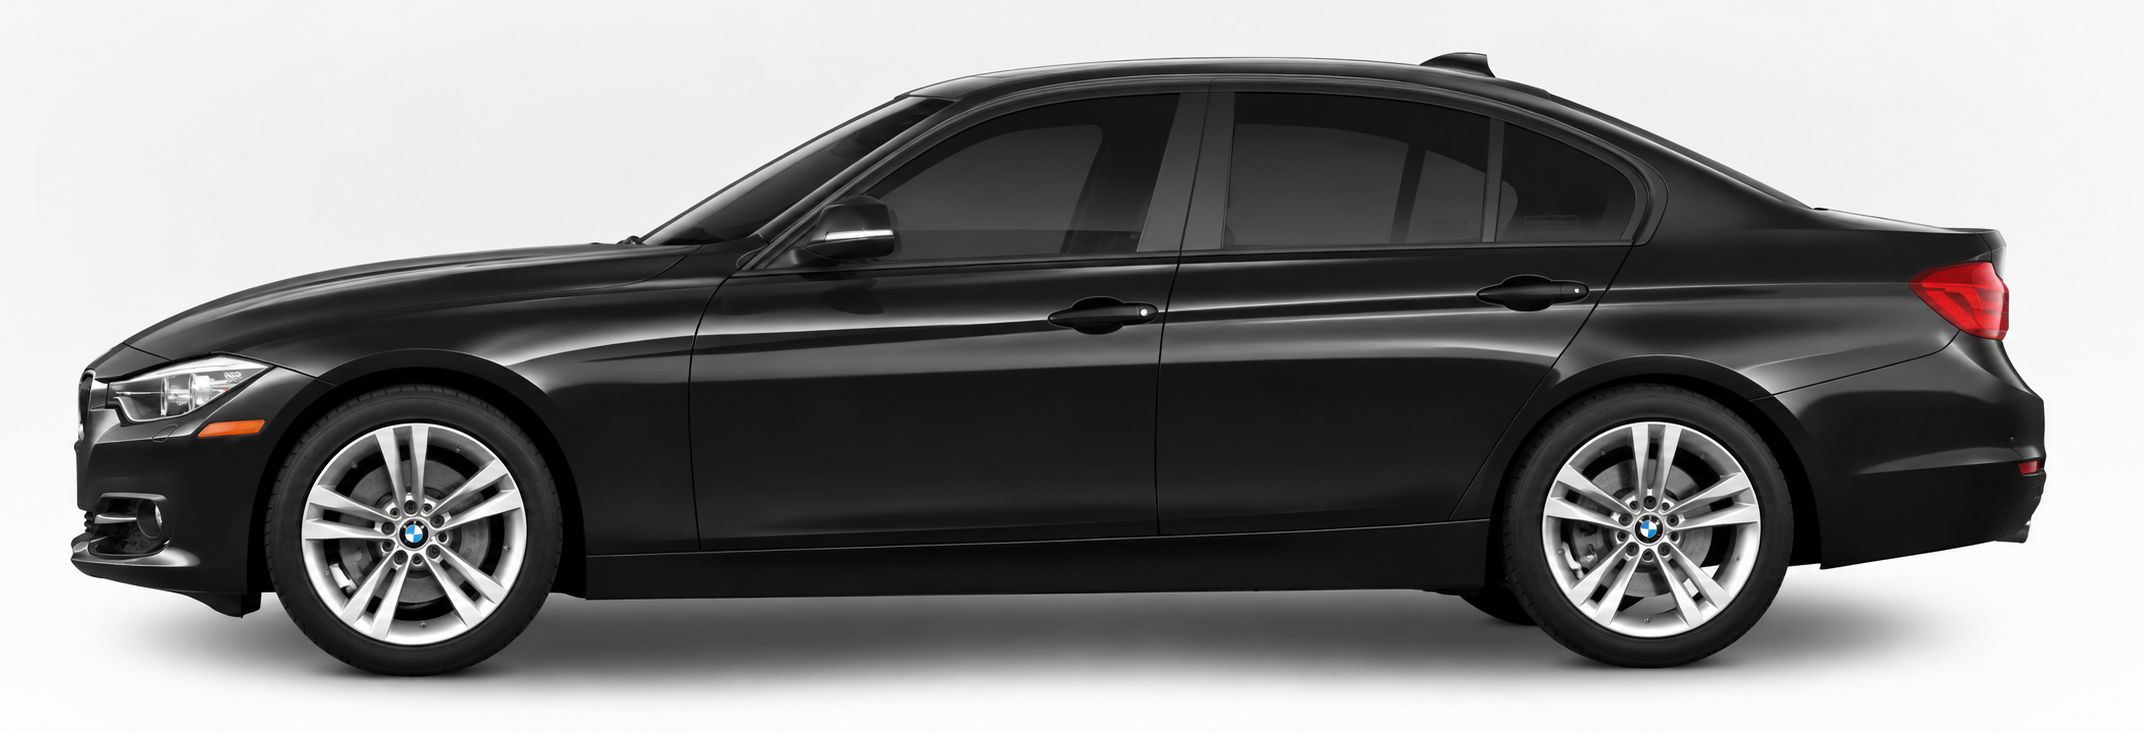
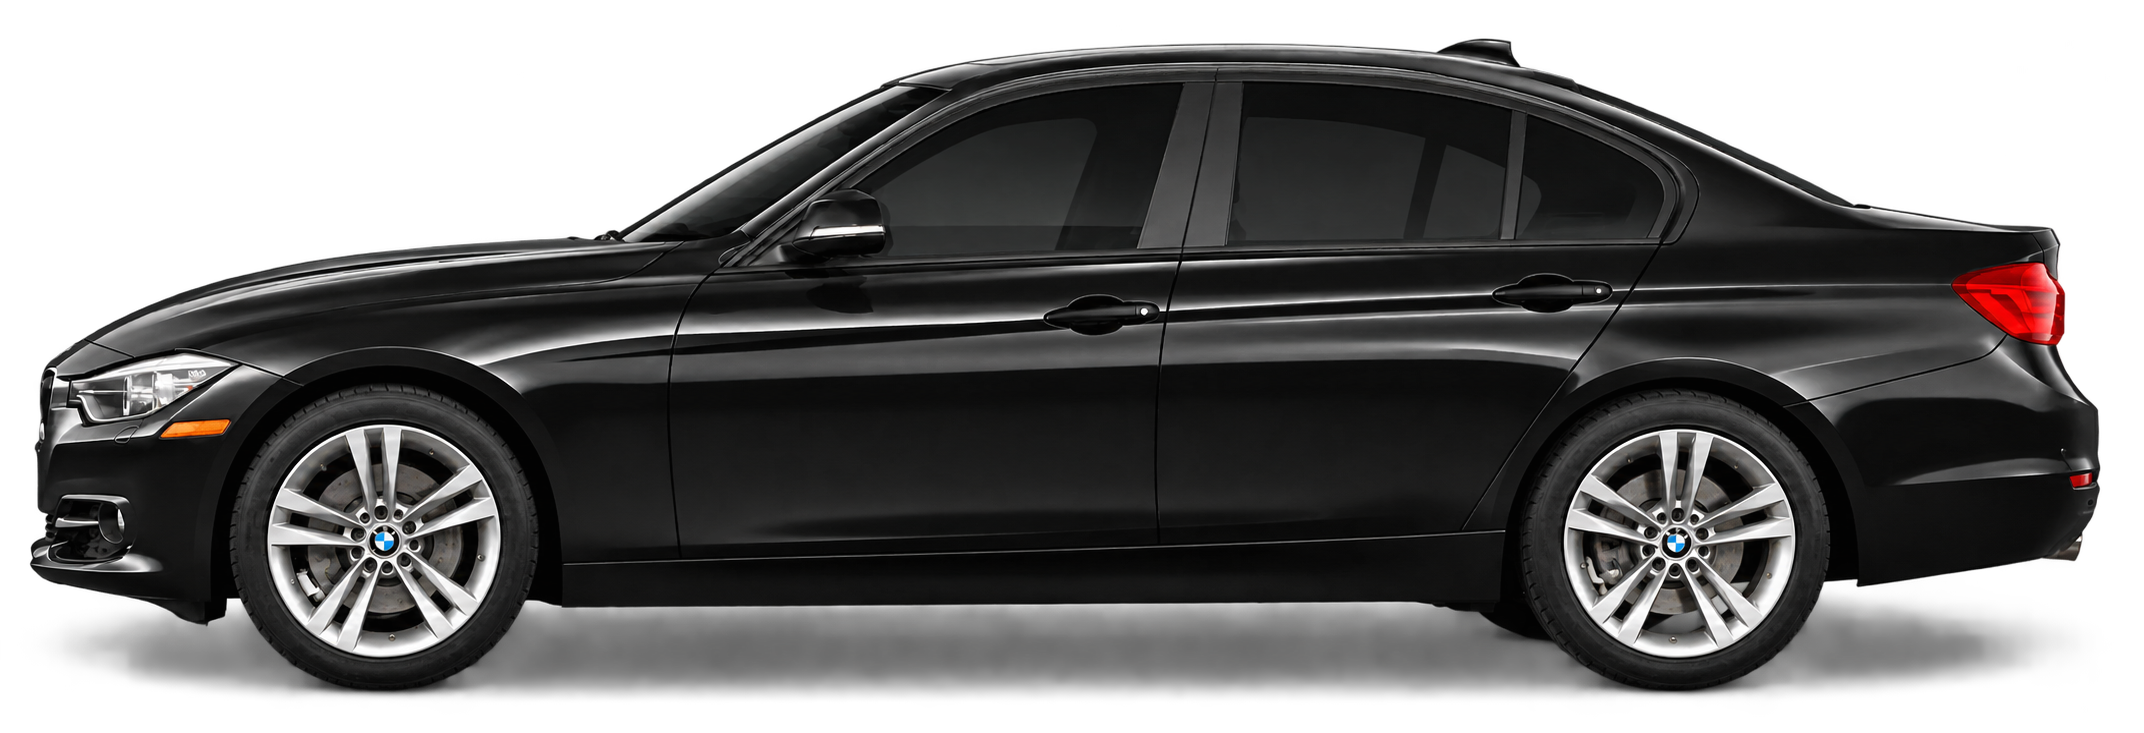
Hero: use the new transparent BMW cut-out with grounded shadow
- Replace hero-bmw.png with the supplied cut-out; drop the build-time
  studio-background blending that the old photo needed
- Hero uses the same grounded CarFigure as the Why section
- Clip the hero horizontally so the floor glow can't widen the page

Changed region(s): [[0.0, 0.03, 1.0, 0.9604], [0.5625, 0.2401, 0.5938, 0.2701]]

diff --git a/src/app/page.tsx b/src/app/page.tsx
@@ -1,7 +1,6 @@
 import BookNow from "@/components/BookNow";
 import CarFigure from "@/components/CarFigure";
 import FleetSection from "@/components/FleetSection";
-import Img from "@/components/Img";
 import AboutSection from "@/components/AboutSection";
 import { links } from "@/content";
 
@@ -9,7 +8,7 @@ export default function Home() {
   return (
     <>
       {/* Hero */}
-      <section id="home" aria-label="Introduction" className="relative scroll-mt-28 bg-[radial-gradient(ellipse_75%_50%_at_50%_62%,#E6E9E5_0%,#F6F7F4_72%)]">
+      <section id="home" aria-label="Introduction" className="relative scroll-mt-28 overflow-x-clip bg-[radial-gradient(ellipse_75%_50%_at_50%_62%,#E6E9E5_0%,#F6F7F4_72%)]">
         <div className="mx-auto flex max-w-[1280px] flex-col items-center px-5 pt-[clamp(56px,9vw,120px)] pb-[clamp(40px,5vw,64px)] text-center">
           <h1 className="display text-hero">
             Reliable Cars at
@@ -20,17 +19,14 @@ export default function Home() {
           </p>
           <BookNow className="z-20 mt-9" />
 
-          <div className="relative mt-[clamp(24px,4vw,48px)] w-full max-w-[1120px]">
-            <div aria-hidden="true" className="ground-shadow" />
-            <Img
-              name="hero-bmw"
-              alt="Black BMW sedan from the LAD Car Rentals fleet"
-              priority
-              fetchPriority="high"
-              sizes="(min-width: 1160px) 1120px, 100vw"
-              className="relative block h-auto w-full"
-            />
-          </div>
+          <CarFigure
+            name="hero-bmw"
+            alt="Black BMW sedan from the LAD Car Rentals fleet"
+            priority
+            sizes="(min-width: 1160px) 1120px, 100vw"
+            shadow="grounded"
+            className="mt-[clamp(32px,5vw,64px)] mb-6 w-full max-w-[1120px]"
+          />
         </div>
       </section>
 
